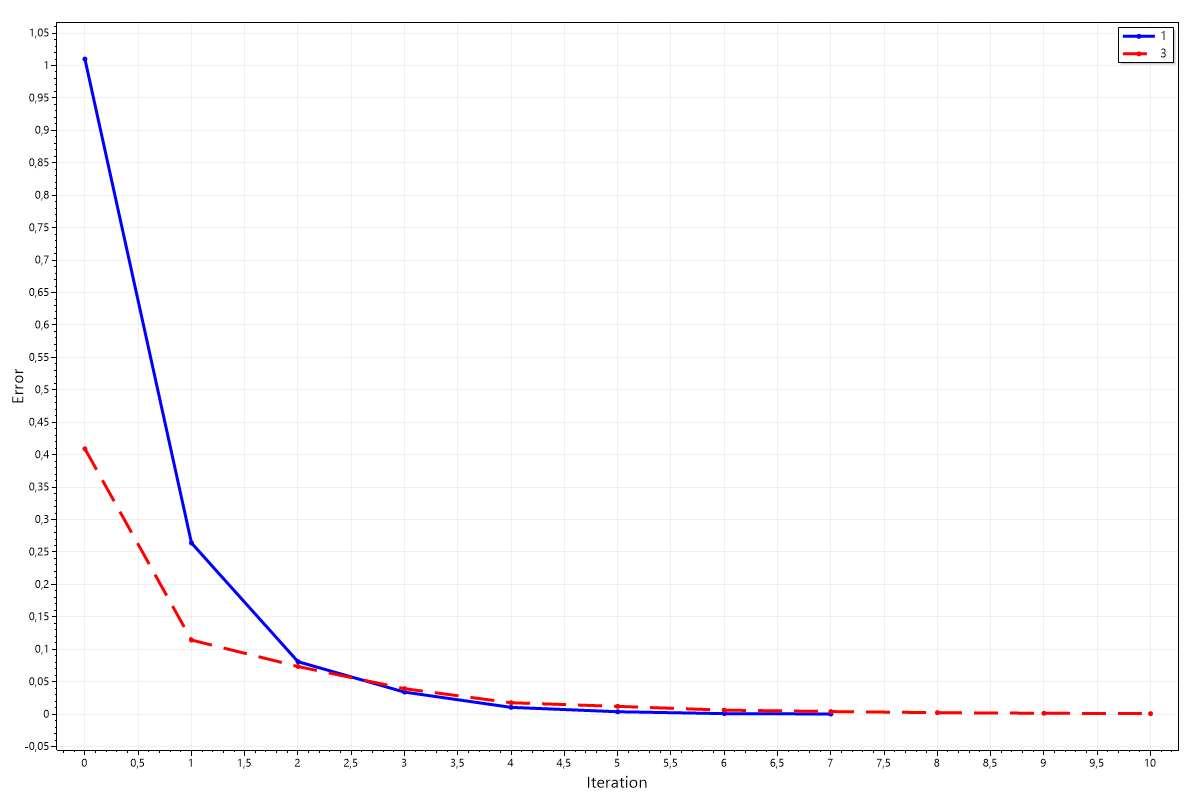
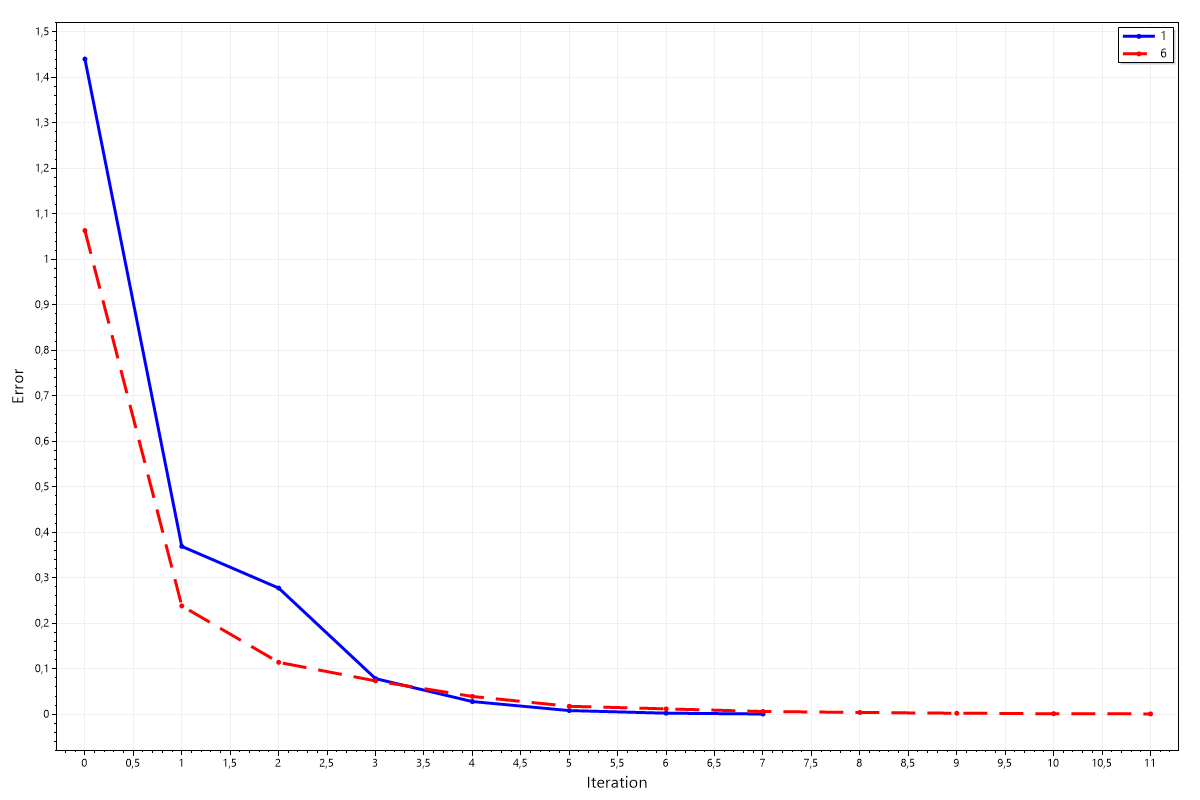
Docs: report

diff --git a/Lab3/report.md b/Lab3/report.md
@@ -1,0 +1,63 @@
+# Отчёт по лабораторной работе №3 "Исследование дискретной цепи маркова"
+
+> Авторы: Шевченко Валерий, Иванов Александр
+
+## Цель работы
+
+Провести аналитическое и численное исследование дискретной цепи Маркова.
+
+## Постановка задачи
+
+Для моделирования была выбрана дискретная эргодическая сеть Маркова, отображающая различные страницы банковского приложения и вероятности перехода пользователя между ними
+
+![](chain.png)
+
+Матрица переходных вероятностей:
+
+$$
+\begin{pmatrix}
+0.05 & 0.65 & 0.0 & 0.0 & 0.0 & 0.0 & 0.2 & 0.1 \\
+0.1 & 0.01 & 0.1 & 0.79 & 0.0 & 0.0 & 0.0 & 0.0 \\
+0.0 & 0.1 & 0.02 & 0.88 & 0.0 & 0.0 & 0.0 & 0.0 \\
+0.1 & 0.0 & 0.0 & 0.1 & 0.3 & 0.4 & 0.1 & 0.0 \\
+0.0 & 0.0 & 0.0 & 0.3 & 0.2 & 0.5 & 0.0 & 0.0 \\
+0.0 & 0.0 & 0.0 & 0.6 & 0.35 & 0.05 & 0.0 & 0.0 \\ 
+0.25 & 0.0 & 0.0 & 0.3 & 0.0 & 0.0 & 0.45 & 0.0 \\
+0.67 & 0.0 & 0.0 & 0.0 & 0.0 & 0.0 & 0.0 & 0.33 \\
+\end{pmatrix}
+$$
+
+## Тестирование и сравнение методов решение
+
+В качестве начальных состояний возьмём ситуацию, когда пользователь находится на какой-то из страниц сайта.
+
+Таким образом начальные состояния, используемые для тесты задачи:
+
+Начало в состоянии 1 - $(0, 1, 0, 0, 0, 0, 0, 0)$
+
+Начало в состоянии 6 - $(0, 0, 0, 0, 0, 0, 1, 0)$
+
+Заданная точность - $0.01$, максимальное число итераций - $100$
+
+В результате моделирования получили два конечных вектора:
+
+**Начало в состоянии 1**
+- Количество итераций: 8
+- Конечный вектор $(0.06582, 0.04419, 0.00434, 0.31374, 0.22852, 0.25226, 0.08125, 0.00987)$
+
+**Начало в состоянии 6**
+- Количество итераций: 12
+- Конечный вектор $(0.06742, 0.04537, 0.00473, 0.3137, 0.22585, 0,24996, 0.08261, 0.01035)$
+
+График зависимости среднеквадратичного отклонения от итерации
+
+![](plot.png)
+
+При решении задачи аналитически, получаем следующий результат
+- Конечный вектор $(0.06597, 0.04376, 0.00447, 0.31418, 0.22825, 0.25242, 0.08111, 0.00985)$
+
+Итоговое сравнение трёх полученных конечных векторов представлено на следующей гистограмме
+
+![](solution.png)
+
+Как видно, все три решения схожи между собой
